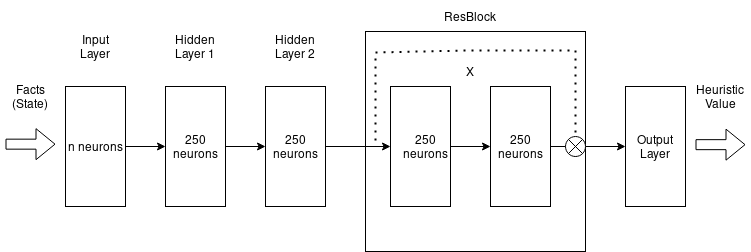
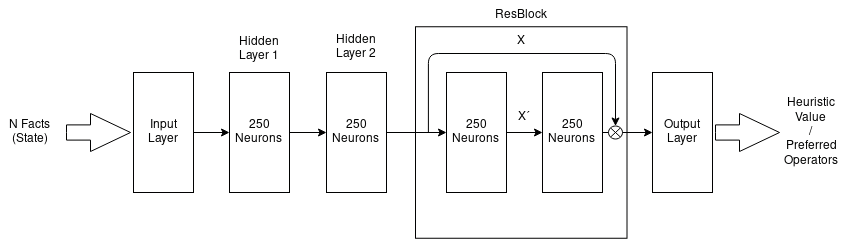
Add PO example, fix errors, other improvements.

diff --git a/presentation/main.tex b/presentation/main.tex
@@ -61,6 +61,7 @@
 \usepackage{comment}
 \usepackage{multicol}
 %\usepackage{natbib}
+\usepackage{cancel}
 \usepackage[citestyle=authoryear,maxnames=10,maxcitenames=1,giveninits=true,backend=biber,uniquelist=false]{biblatex}
 \usepackage[utf8]{inputenc}
 \usepackage[textsize=tiny,colorinlistoftodos,prependcaption]{todonotes}
@@ -577,7 +578,7 @@ Em particular, este trabalho segue a \alert{segunda abordagem} para o aprendizad
 &(\alert{12};0000000101011111\ldots10000010000100000) \\
 &\ldots \\
 \only<2>{&(\alert{14};0000000101011111\ldots10000010000100000) \\}
-\only<3>{&(\textgreen{12};0000000101011111\ldots10000010000100000) \\}
+\only<3>{&(\cancel{14}~\alert{12};0000000101011111\ldots10000010000100000) \\}
 &\ldots
 \end{align*}
 \end{frame}
@@ -606,10 +607,10 @@ Em particular, este trabalho segue a \alert{segunda abordagem} para o aprendizad
     \begin{itemize}
         \item Rollout \#1
         \begin{itemize}
-            \item Amostra \#1: $\langle s^*, 0 \rangle$
-            \item Amostra \#2: $\langle s_1, 1 \rangle$
-            \item Amostra \#3: $\langle s_2, 2 \rangle$
-            \item Amostra \#4: $\langle s_3, 3 \rangle$
+            \item $\langle s^*, 0 \rangle$
+            \item $\langle s_1, 1 \rangle$
+            \item $\langle s_2, 2 \rangle$
+            \item $\langle s_3, 3 \rangle$
         \end{itemize}
     \end{itemize}
 }
@@ -617,10 +618,10 @@ Em particular, este trabalho segue a \alert{segunda abordagem} para o aprendizad
     \begin{itemize}
         \item Rollout \#2
         \begin{itemize}
-            \item Amostra \#5: $\langle s^*, 0 \rangle$
-            \item Amostra \#6: $\langle s_4, 1 \rangle$
-            \item Amostra \#7: $\langle s_5, 2 \rangle$
-            \item Amostra \#8: $\langle s_3, 3 \rangle$
+            \item $\langle s^*, 0 \rangle$
+            \item $\langle s_4, 1 \rangle$
+            \item $\langle s_5, 2 \rangle$
+            \item $\langle s_3, 3 \rangle$
         \end{itemize}
     \end{itemize}
 }
@@ -628,17 +629,17 @@ Em particular, este trabalho segue a \alert{segunda abordagem} para o aprendizad
     \begin{itemize}
         \item Rollout \#1
         \begin{itemize}
-            \item Amostra \#1: $\langle s^*, 0 \rangle$
-            \item Amostra \#2: $\langle s_1, 1 \rangle$
-            \item Amostra \#3: $\langle s_2, 2 \rangle$
-            \item Amostra \#4: $\langle s_3, 3 \rangle$
+            \item $\langle s^*, 0 \rangle$
+            \item $\langle s_1, 1 \rangle$
+            \item $\langle s_2, 2 \rangle$
+            \item $\langle s_3, 3 \rangle$
         \end{itemize}
         \item Rollout \#2
         \begin{itemize}
-            \item Amostra \#5: $\langle s^*, 0 \rangle$
-            \item Amostra \#6: $\langle s_4, 1 \rangle$
-            \item Amostra \#7: $\langle s_5, 2 \rangle$
-            \item Amostra \#8: $\langle s_3, 3 \rangle$
+            \item $\langle s^*, 0 \rangle$
+            \item $\langle s_4, 1 \rangle$
+            \item $\langle s_5, 2 \rangle$
+            \item $\langle s_3, 3 \rangle$
         \end{itemize}
     \end{itemize}
 }
@@ -662,7 +663,7 @@ Em particular, este trabalho segue a \alert{segunda abordagem} para o aprendizad
         black_node/.style={circle, draw=black!100, fill=black!0, very thick, minimum height=8mm, minimum width=8mm},
         red_node/.style={circle, draw=red!100, fill=red!0, very thick, minimum height=8mm, minimum width=8mm},
     ]
-        \node[red_node, accepting, label=above:{\footnotesize$0$}] (goal) {\footnotesize$s^*$} ;
+        \node[red_node, accepting, label=left:{\footnotesize$0$}] (goal) {\footnotesize$s^*$} ;
         \node[red_node, label=left:{\footnotesize$1$}] (s1) [below = of goal] {\footnotesize$s_{1}$} ;
         \node[red_node, label=left:{\footnotesize$2$}] (s2) [below = of s1] {\footnotesize$s_{2}$} ;
         \node[red_node, label=right:{\footnotesize$3$}] (s3) [right = of s2] {\footnotesize$s_{3}$} ;
@@ -680,7 +681,7 @@ Em particular, este trabalho segue a \alert{segunda abordagem} para o aprendizad
         red_node/.style={circle, draw=red!100, fill=red!0, very thick, minimum height=8mm, minimum width=8mm},
         gray_node/.style={circle, draw=lightgray, fill=black!0, very thick, minimum height=8mm, minimum width=8mm},
     ]
-        \node[red_node, accepting, label=above:{\footnotesize$0$}] (goal) {\footnotesize$s^*$} ;
+        \node[red_node, accepting, label=left:{\footnotesize$0$}] (goal) {\footnotesize$s^*$} ;
         \node[gray_node, label=left:{\footnotesize$1$}] (s1) [below = of goal] {\footnotesize$s_{1}$} ;
         \node[gray_node, label=left:{\footnotesize$2$}] (s2) [below = of s1] {\footnotesize$s_{2}$} ;
 
@@ -708,7 +709,7 @@ Em particular, este trabalho segue a \alert{segunda abordagem} para o aprendizad
         blue_node/.style={circle, draw=blue!100, fill=blue!0, very thick, minimum height=8mm, minimum width=8mm},
         magenta_node/.style={circle, draw=magenta!100, fill=magenta!0, very thick, minimum height=8mm, minimum width=8mm},
     ]
-        \node[black_node, accepting, label=above:{\footnotesize$0$}] (goal) {\footnotesize$s^*$} ;
+        \node[black_node, accepting, label=left:{\footnotesize$0$}] (goal) {\footnotesize$s^*$} ;
         \node[black_node, label=left:{\footnotesize$1$}] (s1) [below = of goal] {\footnotesize$s_{1}$} ;
         \node[black_node, label=left:{\footnotesize$2$}] (s2) [below = of s1] {\footnotesize$s_{2}$} ;
 
@@ -732,7 +733,7 @@ Em particular, este trabalho segue a \alert{segunda abordagem} para o aprendizad
         black_node/.style={circle, draw=black!100, fill=black!0, very thick, minimum height=8mm, minimum width=8mm},
         grey_node/.style={circle, draw=lightgray, fill=black!0, very thick, minimum height=8mm, minimum width=8mm},
     ]
-        \node[black_node, accepting, label=above:{\footnotesize$0$}] (goal) {\footnotesize$s^*$} ;
+        \node[black_node, accepting, label=left:{\footnotesize$0$}] (goal) {\footnotesize$s^*$} ;
         \node[black_node, label=left:{\footnotesize$1$}] (s1) [below = of goal] {\footnotesize$s_{1}$} ;
         \node[black_node, label=left:{\footnotesize$2$}] (s2) [below = of s1] {\footnotesize$s_{2}$} ;
 
@@ -758,7 +759,7 @@ Em particular, este trabalho segue a \alert{segunda abordagem} para o aprendizad
         black_node/.style={circle, draw=black!100, fill=black!0, very thick, minimum height=8mm, minimum width=8mm},
         grey_node/.style={circle, draw=lightgray, fill=black!0, very thick, minimum height=8mm, minimum width=8mm},
     ]
-        \node[black_node, accepting, label=above:{\footnotesize$0$}] (goal) {\footnotesize$s^*$} ;
+        \node[black_node, accepting, label=left:{\footnotesize$0$}] (goal) {\footnotesize$s^*$} ;
         \node[black_node, label=left:{\footnotesize$1$}] (s1) [below = of goal] {\footnotesize$s_{1}$} ;
         \node[black_node, label=left:{\footnotesize$2$}] (s2) [below = of s1] {\footnotesize$s_{2}$} ;
 
@@ -829,7 +830,94 @@ Em particular, este trabalho segue a \alert{segunda abordagem} para o aprendizad
 \end{frame}
 
 \begin{frame}{Grafo de Caminhos mais Curtos}
-  \ppi{Botar uma figura aqui.}
+\begin{columns}
+\begin{column}{0.5\textwidth}
+\only<1>{Grafo $G$.}
+\only<2>{Grafo $G'$ de caminhos mais curtos para $s^{*}$.
+  \begin{itemize}
+    \item Mantém só os arcos que levam ao(s) caminho(s) mais curto(s) de qualquer estado para $s^{*}$.
+  \end{itemize}
+}
+\only<3>{Por exemplo, para o estado $s_{3}$, o operador \alert{$o_{7}$} é um \alert{operador preferido}.}
+\end{column}
+\begin{column}{0.5\textwidth}
+\only<1>{
+\begin{tikzpicture}
+[
+    node distance=21mm and 22mm, on grid, auto, label distance=-0.5mm,
+    black_node/.style={circle, draw=black!100, fill=black!0, very thick, minimum height=8mm, minimum width=8mm},
+    grey_node/.style={circle, draw=lightgray, fill=black!0, very thick, minimum height=8mm, minimum width=8mm},
+]
+    \node[black_node, accepting, label=left:{\footnotesize$0$}] (goal) {\footnotesize$s^*$} ;
+    \node[black_node, label=left:{\footnotesize$1$}] (s1) [below = of goal] {\footnotesize$s_{1}$} ;
+    \node[black_node, label=left:{\footnotesize$2$}] (s2) [below = of s1] {\footnotesize$s_{2}$} ;
+
+    \node[black_node, label=right:{\footnotesize$1$}] (s4) [right = of goal] {\footnotesize$s_{4}$} ;
+    \node[black_node, label=right:{\footnotesize$2$}] (s5) [below = of s4] {\footnotesize$s_{5}$} ;
+    \node[black_node, label=right:{\footnotesize$2$}] (s3) [below = of s5] {\footnotesize$s_{3}$} ;
+
+    \draw[->, line width=0.3mm, color=black] (s1) -- (goal) node[midway,left] {\footnotesize$o_{1}$} ;
+    \draw[->, line width=0.3mm, color=black] (s2) -- (s1) node[midway,left] {\footnotesize$o_{2}$} ;
+    \draw[->, line width=0.3mm, color=black] (s3) -- (s2) node[midway,below] {\footnotesize$o_{3}$} ;
+    \draw[->, line width=0.3mm, color=black] (s4) -- (goal) node[midway,above] {\footnotesize$o_{4}$} ;
+    \draw[->, line width=0.3mm, color=black] (s5) -- (s4) node[midway,right] {\footnotesize$o_{5}$} ;
+    \draw[->, line width=0.3mm, color=black] (s3) -- (s5) node[midway,right] {\footnotesize$o_{6}$} ;
+    \draw[->, line width=0.3mm, color=black] (s3) -- (s1) node[midway,above] {\footnotesize$o_{7}$} ;
+\end{tikzpicture}
+}
+\only<2>{
+\begin{tikzpicture}
+[
+    node distance=21mm and 22mm, on grid, auto, label distance=-0.5mm,
+    black_node/.style={circle, draw=black!100, fill=black!0, very thick, minimum height=8mm, minimum width=8mm},
+    grey_node/.style={circle, draw=lightgray, fill=black!0, very thick, minimum height=8mm, minimum width=8mm},
+]
+    \node[black_node, accepting, label=left:{\footnotesize$0$}] (goal) {\footnotesize$s^*$} ;
+    \node[black_node, label=left:{\footnotesize$1$}] (s1) [below = of goal] {\footnotesize$s_{1}$} ;
+    \node[black_node, label=left:{\footnotesize$2$}] (s2) [below = of s1] {\footnotesize$s_{2}$} ;
+
+    \node[black_node, label=right:{\footnotesize$1$}] (s4) [right = of goal] {\footnotesize$s_{4}$} ;
+    \node[black_node, label=right:{\footnotesize$2$}] (s5) [below = of s4] {\footnotesize$s_{5}$} ;
+    \node[black_node, label=right:{\footnotesize$2$}] (s3) [below = of s5] {\footnotesize$s_{3}$} ;
+
+    \draw[->, line width=0.3mm, color=black] (s1) -- (goal) node[midway,left] {\footnotesize$o_{1}$} ;
+    \draw[->, line width=0.3mm, color=black] (s2) -- (s1) node[midway,left] {\footnotesize$o_{2}$} ;
+    \draw[->, line width=0.3mm, color=lightgray] (s3) -- (s2) node[midway,below] {\footnotesize$o_{3}$} ;
+    \draw[->, line width=0.3mm, color=black] (s4) -- (goal) node[midway,above] {\footnotesize$o_{4}$} ;
+    \draw[->, line width=0.3mm, color=black] (s5) -- (s4) node[midway,right] {\footnotesize$o_{5}$} ;
+    \draw[->, line width=0.3mm, color=lightgray] (s3) -- (s5) node[midway,right] {\footnotesize$o_{6}$} ;
+    \draw[->, line width=0.3mm, color=black] (s3) -- (s1) node[midway,above] {\footnotesize$o_{7}$} ;
+\end{tikzpicture}
+}
+\only<3>{
+\begin{tikzpicture}
+[
+    node distance=21mm and 22mm, on grid, auto, label distance=-0.5mm,
+    black_node/.style={circle, draw=black!100, fill=black!0, very thick, minimum height=8mm, minimum width=8mm},
+    grey_node/.style={circle, draw=lightgray, fill=black!0, very thick, minimum height=8mm, minimum width=8mm},
+]
+    \node[black_node, accepting, label=left:{\footnotesize$0$}] (goal) {\footnotesize$s^*$} ;
+    \node[black_node, label=left:{\footnotesize$1$}] (s1) [below = of goal] {\footnotesize$s_{1}$} ;
+    \node[black_node, label=left:{\footnotesize$2$}] (s2) [below = of s1] {\footnotesize$s_{2}$} ;
+
+    \node[black_node, label=right:{\footnotesize$1$}] (s4) [right = of goal] {\footnotesize$s_{4}$} ;
+    \node[black_node, label=right:{\footnotesize$2$}] (s5) [below = of s4] {\footnotesize$s_{5}$} ;
+    \node[black_node, label=right:{\footnotesize$2$}] (s3) [below = of s5] {\footnotesize$s_{3}$} ;
+
+    \draw[->, line width=0.3mm, color=black] (s1) -- (goal) node[midway,left] {\footnotesize$o_{1}$} ;
+    \draw[->, line width=0.3mm, color=black] (s2) -- (s1) node[midway,left] {\footnotesize$o_{2}$} ;
+    \draw[->, line width=0.3mm, color=lightgray] (s3) -- (s2) node[midway,below] {\footnotesize$o_{3}$} ;
+    \draw[->, line width=0.3mm, color=black] (s4) -- (goal) node[midway,above] {\footnotesize$o_{4}$} ;
+    \draw[->, line width=0.3mm, color=black] (s5) -- (s4) node[midway,right] {\footnotesize$o_{5}$} ;
+    \draw[->, line width=0.3mm, color=lightgray] (s3) -- (s5) node[midway,right] {\footnotesize$o_{6}$} ;
+    \draw[->, line width=0.3mm, color=red] (s3) -- (s1) node[midway,above] {\footnotesize$o_{7}$} ;
+\end{tikzpicture}
+}
+
+
+\end{column}
+\end{columns}
+
 \end{frame}
 
 \subsection{Gerando Amostras com \bfsrs}
@@ -898,20 +986,20 @@ Depois, melhoramos as estimativas com SAI e SUI, extraímos os operadores prefer
 \input{tables/tasks_info.tex}
 \end{frame}
 
-\begin{frame}{Geração de Samples}
+\begin{frame}{Geração de Amostras}
 \begin{itemize}
   \item Amostragem usando \alert{\bfsrs} a partir do gol de uma tarefa de cada domínio.
   \pause
-  \item Geramos $N$ samples, onde $N$ é a porcentagem do tamanho do espaço de estados (FSP) de cada tarefa.
+  \item Geramos $N$ amostras, onde $N$ é a porcentagem do tamanho do espaço de estados (FSP) de cada tarefa.
     \begin{itemize}
       \item e.g. em Blocks, $5\,\%$ é $\lfloor 65990 \times 0.05 \rceil = 3300$ amostras.
     \end{itemize}
   \pause
   \item Para cada tarefa, geramos \alert{$5$} conjuntos de amostras (\emph{seeds}).
   \pause
-  \item Formato de cada amostra: $(h(s), \mathcal{F}(s), O_{pref} \subseteq O)$.
+  \item Formato de cada amostra: $(\textgreen{h(s)}, \textblue{\mathcal{F}(s)}, \textorange{O_{pref} \subseteq O})$.
     \begin{itemize}
-      \item $15;000000011110\ldots000100000001;27,26$
+      \item $\textgreen{15};\textblue{000000011110\ldots000100000001};\textorange{27,26}$
     \end{itemize}
 \end{itemize}
 \end{frame}
@@ -1029,7 +1117,7 @@ Depois, melhoramos as estimativas com SAI e SUI, extraímos os operadores prefer
 \begin{itemize}
   \item Em média, \pog \alert{supera} \pofsm.
   \pause
-  \item \alert{\pofsm precisa de $10\times$ mais samples} para ter resultados comparáveis a \pog.
+  \item \alert{\pofsm precisa de $10\times$ mais amostras} para ter resultados comparáveis a \pog.
     \begin{itemize}
       \item \pofsm $50\,\%$: $22.5$.
       \item \pog $5\,\%$: $22.4$.

diff --git a/presentation/macros.tex b/presentation/macros.tex
@@ -57,6 +57,7 @@
 \newcommand{\textblue}[1]{{\color{blue} #1}}
 \definecolor{green}{HTML}{28cd4c}
 \newcommand{\textgreen}[1]{{\color{green} #1}}
+\newcommand{\textorange}[1]{{\color{orange} #1}}
 
 %% Algorithms, mathematical notation etc.
 
